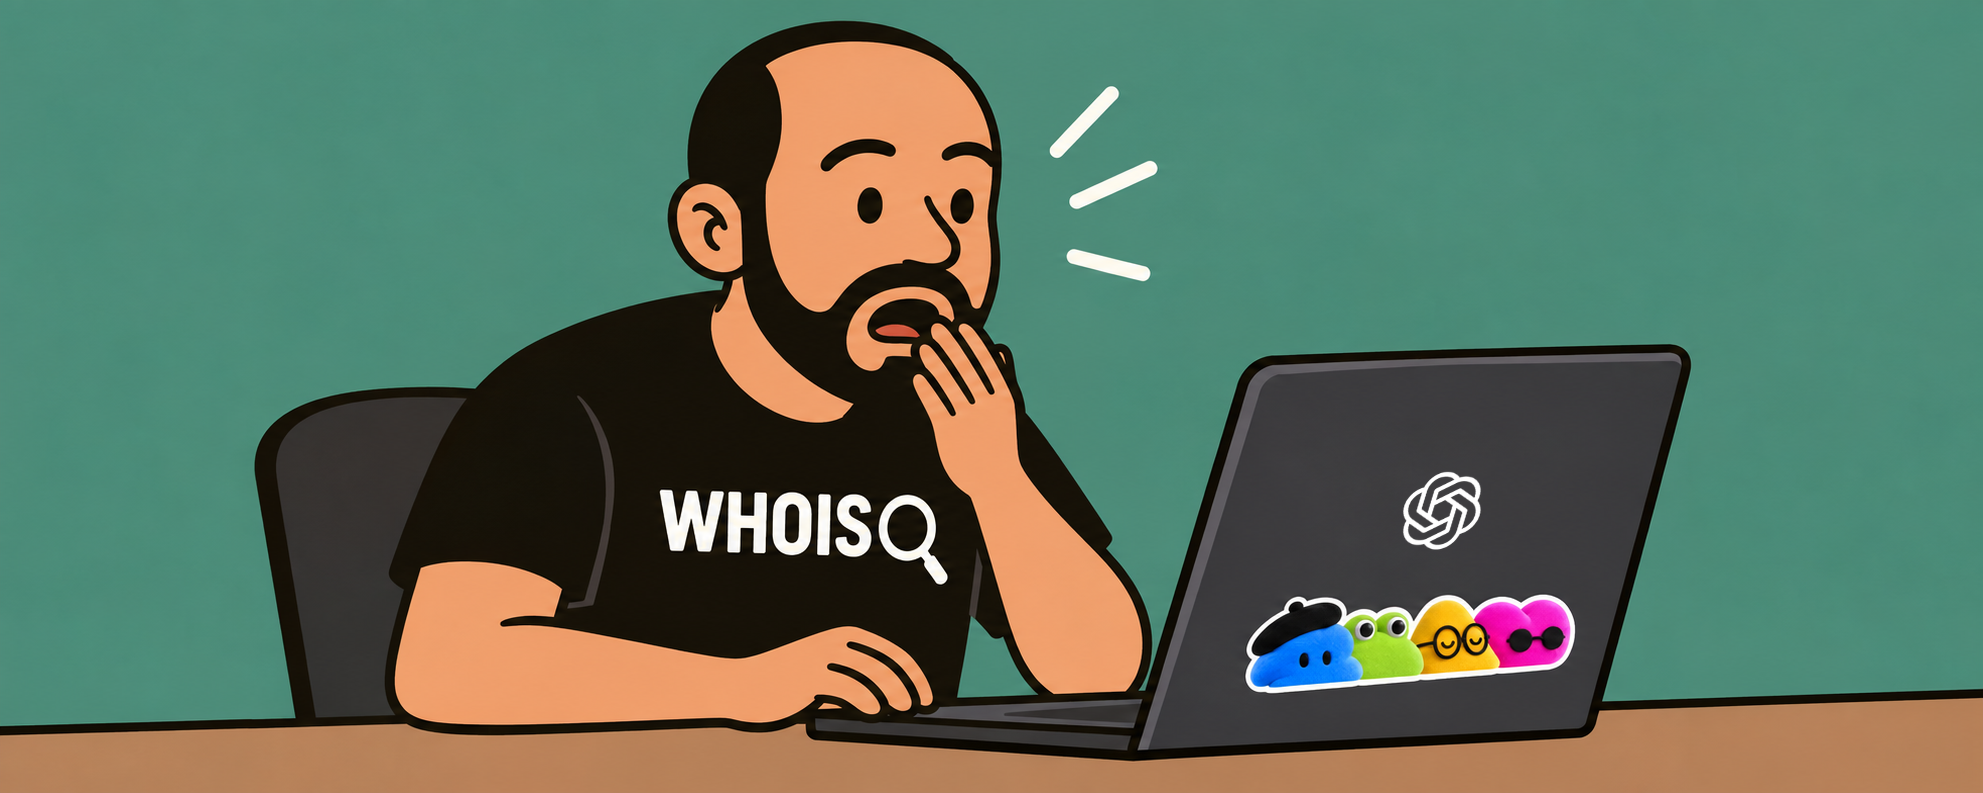
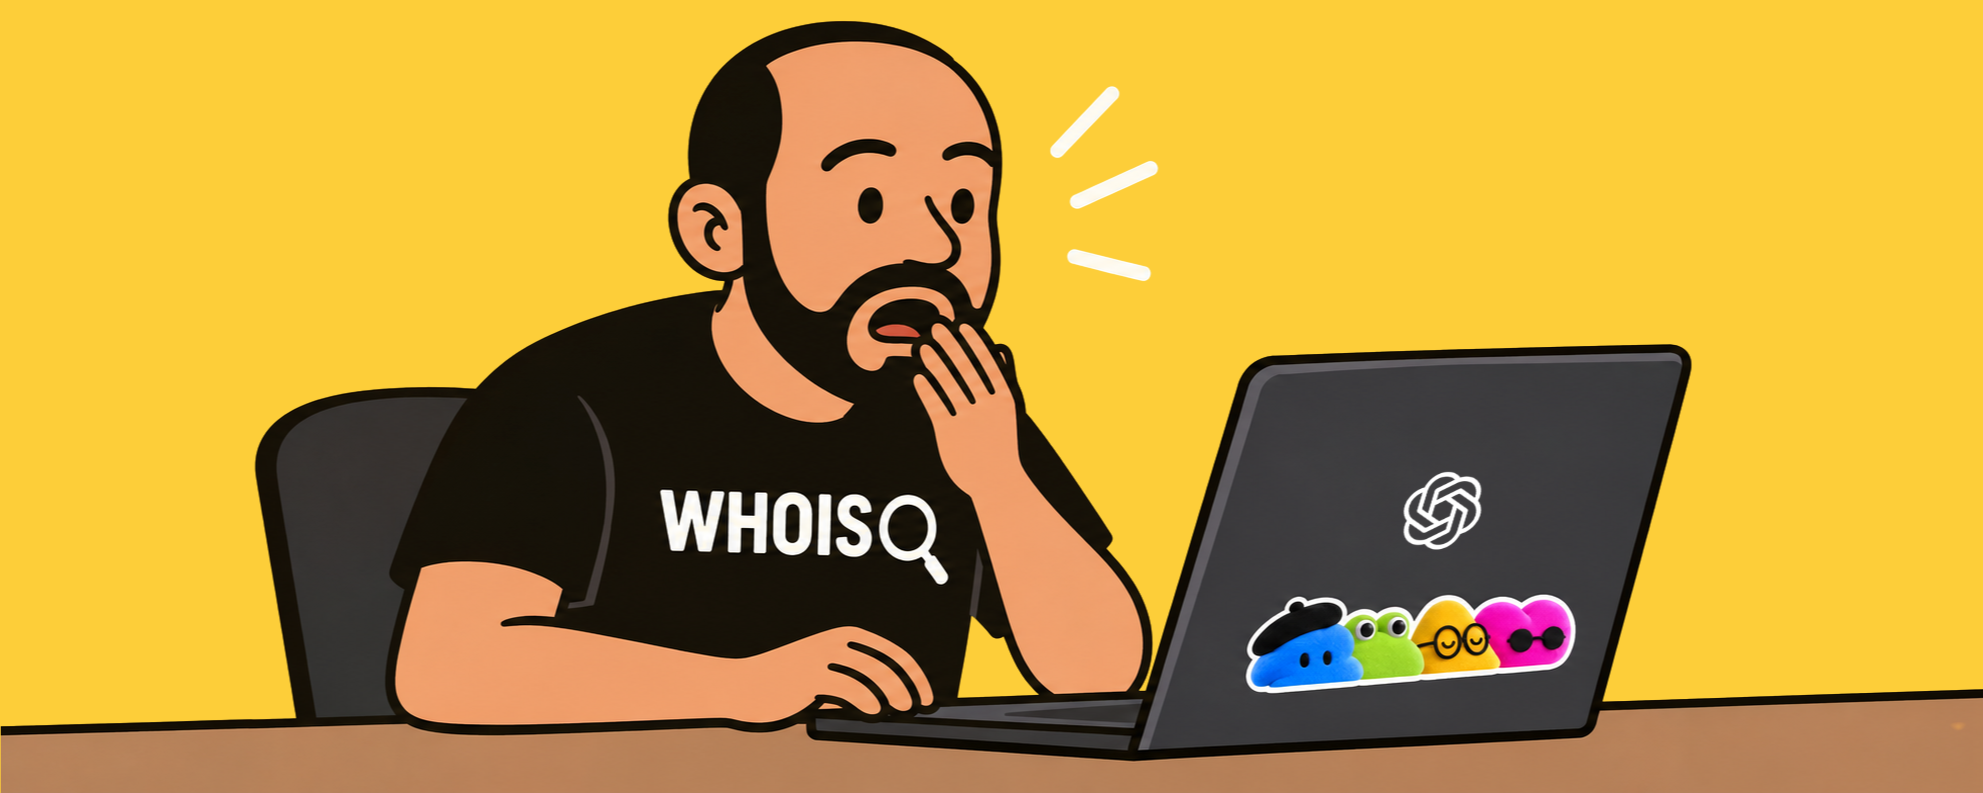
fix(blog): update subtitle and slug in "¿Ya reservaste el dominio?" post; refine text for clarity and consistency

diff --git a/src/content/blog/2026/10/reservaste-el-dominio.md b/src/content/blog/2026/10/reservaste-el-dominio.md
@@ -1,6 +1,6 @@
 ---
 title: ¿Ya reservaste el dominio?
-subtitle: ''
+subtitle: 'Como la grandes compañias siguen repitiendo los mismos errores un cuarto de siglo más tarde.'
 pubDate: '2026-10-03'
 heroImage: /images/blog/2026/10/reservaste-el-dominio/hero.png
 author: Asdrúbal Chirinos
@@ -8,38 +8,38 @@ featured: false
 draft: true
 kind: short
 tags: ["opinion","tendencia","industria"]
-slug: el-dominio-olvidado
+slug: reservaste-el-dominio
 ---
 
 En noviembre del año 2000, Palm anunció con bombos y platillos un nuevo servicio. Se llamaría: **MyPalm**.
 
-La idea era brillante, innovadora, crear un portal desde el que los usuarios pudieran acceder a su información personal: calendarios, contactos, tareas y otros datos que hasta entonces vivían principalmente en sus dispositivos.
+La idea era brillante, innovadora: crear un portal desde el que los usuarios pudieran acceder a su información personal: calendarios, contactos, tareas y otros datos que hasta entonces vivían principalmente en sus dispositivos.
 
-Palm no era una startup improvisada. Era una de las empresas tecnológicas más importantes de su época. Habían planificado el producto, diseñado la experiencia, preparado material publicitario y subido a un escenario a presentarlo.
+**Palm** no era una startup improvisada. Era una de las empresas tecnológicas más importantes de su época. Habían planificado el producto, diseñado la experiencia, preparado material publicitario y subido a un escenario a presentarlo.
 
-Había un pequeño detalle del que nadie parece haberse dado cuenta.
+Había un pequeño detalle del que nadie parecia haberse percatado.
 
 **El dominio ``mypalm.com``, ya estaba registrado.**
 
 Un consultor británico, _Dominic Hulewicz_ lo había hecho once meses atrás y lo usaba para su correo electrónico.
 
-Un cuarto de siglo después... el mismo guion vuelve a ejecutarse.
+Un cuarto de siglo después... el mismo guion vuelve a repetirse.
 
 Durante el **DevDay 2026**, OpenAI presentó **Dots**: agentes que permanecen trabajando de forma persistente y pueden encargarse de tareas en segundo plano.
 
 Su mensaje de presentación fue directo y memorable:
-> Your dot is ready to meet you.
+> Your **dot** is ready to meet you.
 
 El nombre es limpio, fácil de comunicar y perfecto para una campaña. 
-El problema es que el dominio ``dot.com``, **no lo tiene OpenAI**,  si hoy lo visitas, llegas a **Grok Bot**.
+El problema es que el dominio ``dot.com``, **no lo tiene OpenAI**.  Si hoy lo visitas, te recibe **Grok Bot**.
 
 El producto de **xAI** con el que Dots compite directamente.
 
 No sabemos si "alguien" compró el dominio anticipándose a este momento o si simplemente lo tenían desde hace tiempo, da igual.
 
-Lo relevante es otro.
+Lo relevante es lo otro.
 
-**OpenAI** es una de las empresas tecnológicas **más importantes** del momento. Tiene equipos de producto, branding, marketing, legal y cientos de personas revisando cada detalle antes de subir a un escenario. Aun así, anunciaron públicamente el nombre de un producto e invitaron a conocerlo, sin haber asegurado el dominio más obvio asociado a ese nombre, ``dot.com``
+**OpenAI** es una de las empresas tecnológicas **más importantes** del momento. Tiene equipos de producto, branding, marketing, legal y cientos de personas revisando cada detalle antes de subir a un escenario. Aun así, anunciaron públicamente el nombre de un producto e invitaron a conocerlo, sin haber asegurado el dominio más obvio asociado el producto, ``dot.com``
 
 **Palm** cometió exactamente ese error hace 26 años.
 
@@ -54,3 +54,7 @@ Lo interesante es aceptar, que incluso las compañías más poderosas del planet
 Porque a veces el futuro se construye con modelos enormes, capital infinito y equipos brillantes…
 
 y se tropieza con un dominio de tres letras.
+
+---
+
+... por cierto, ``dots.com``tampoco de ellos.
